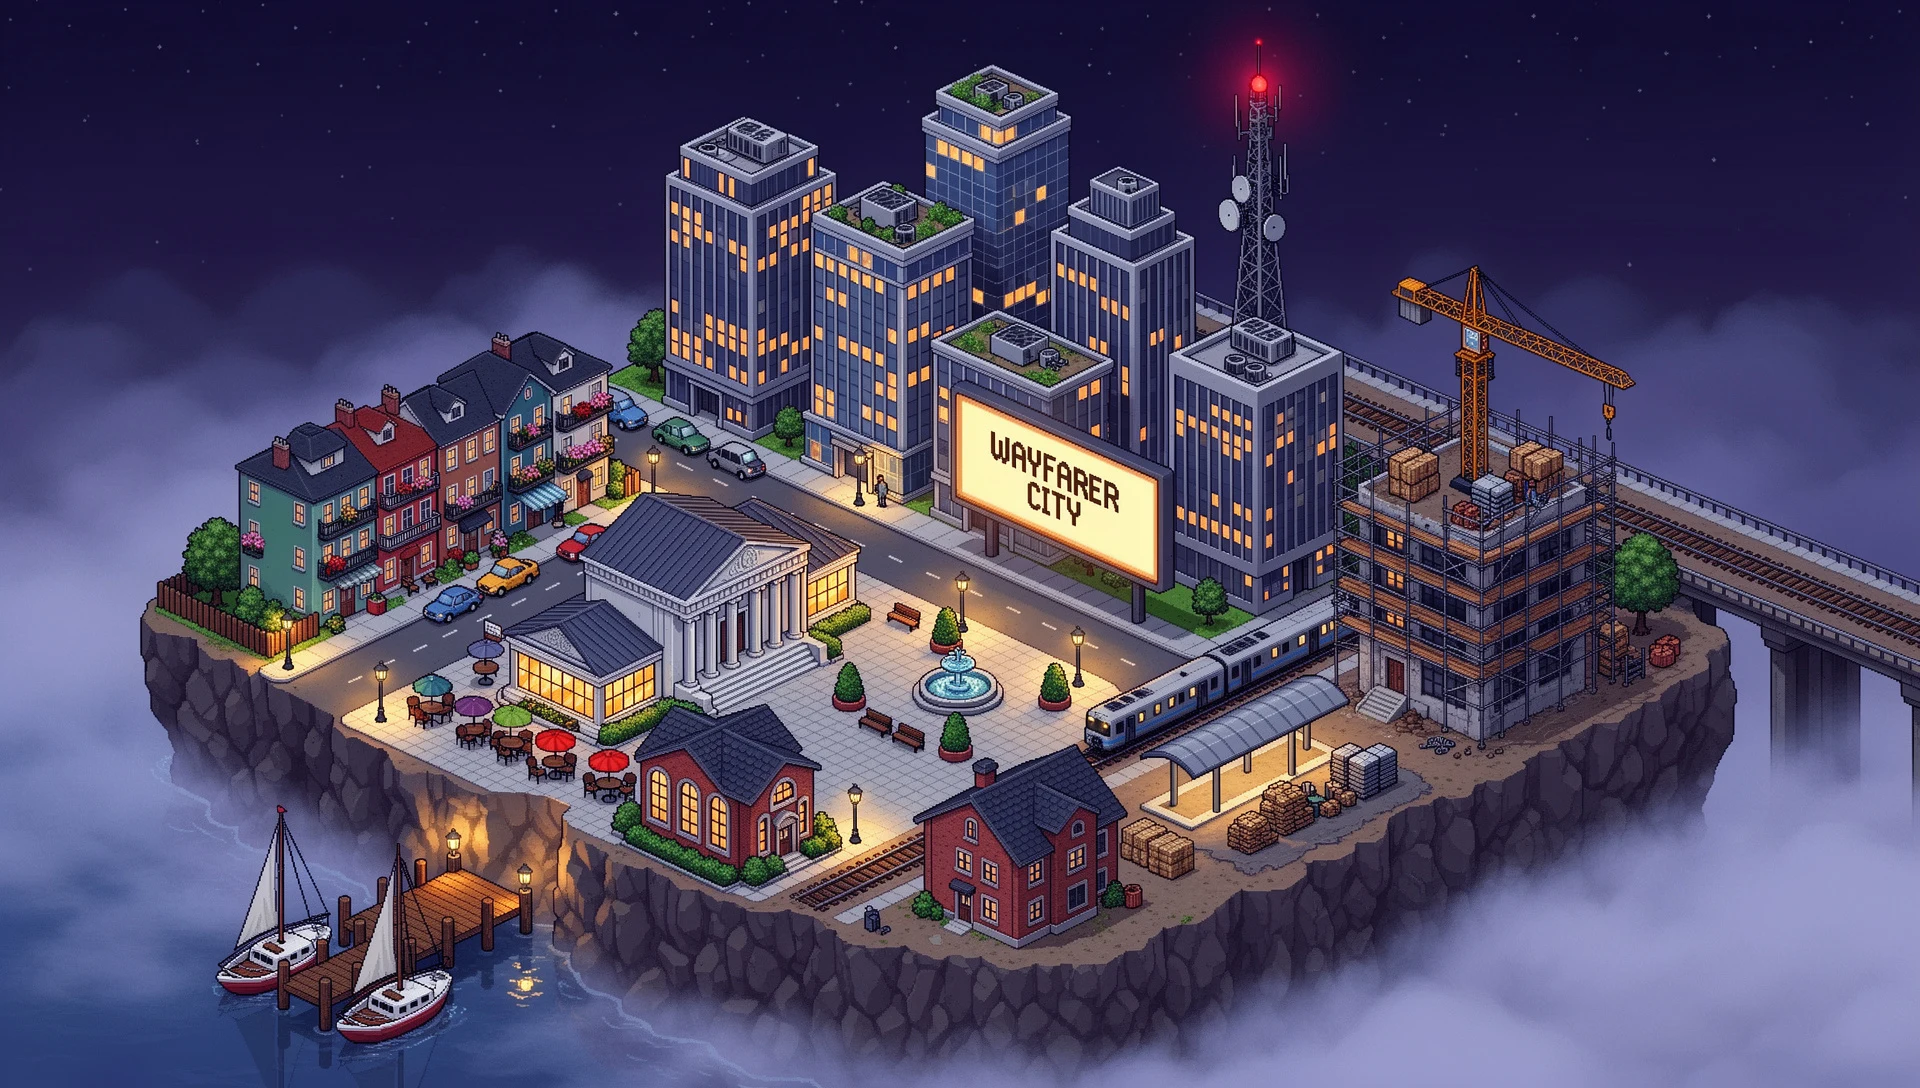
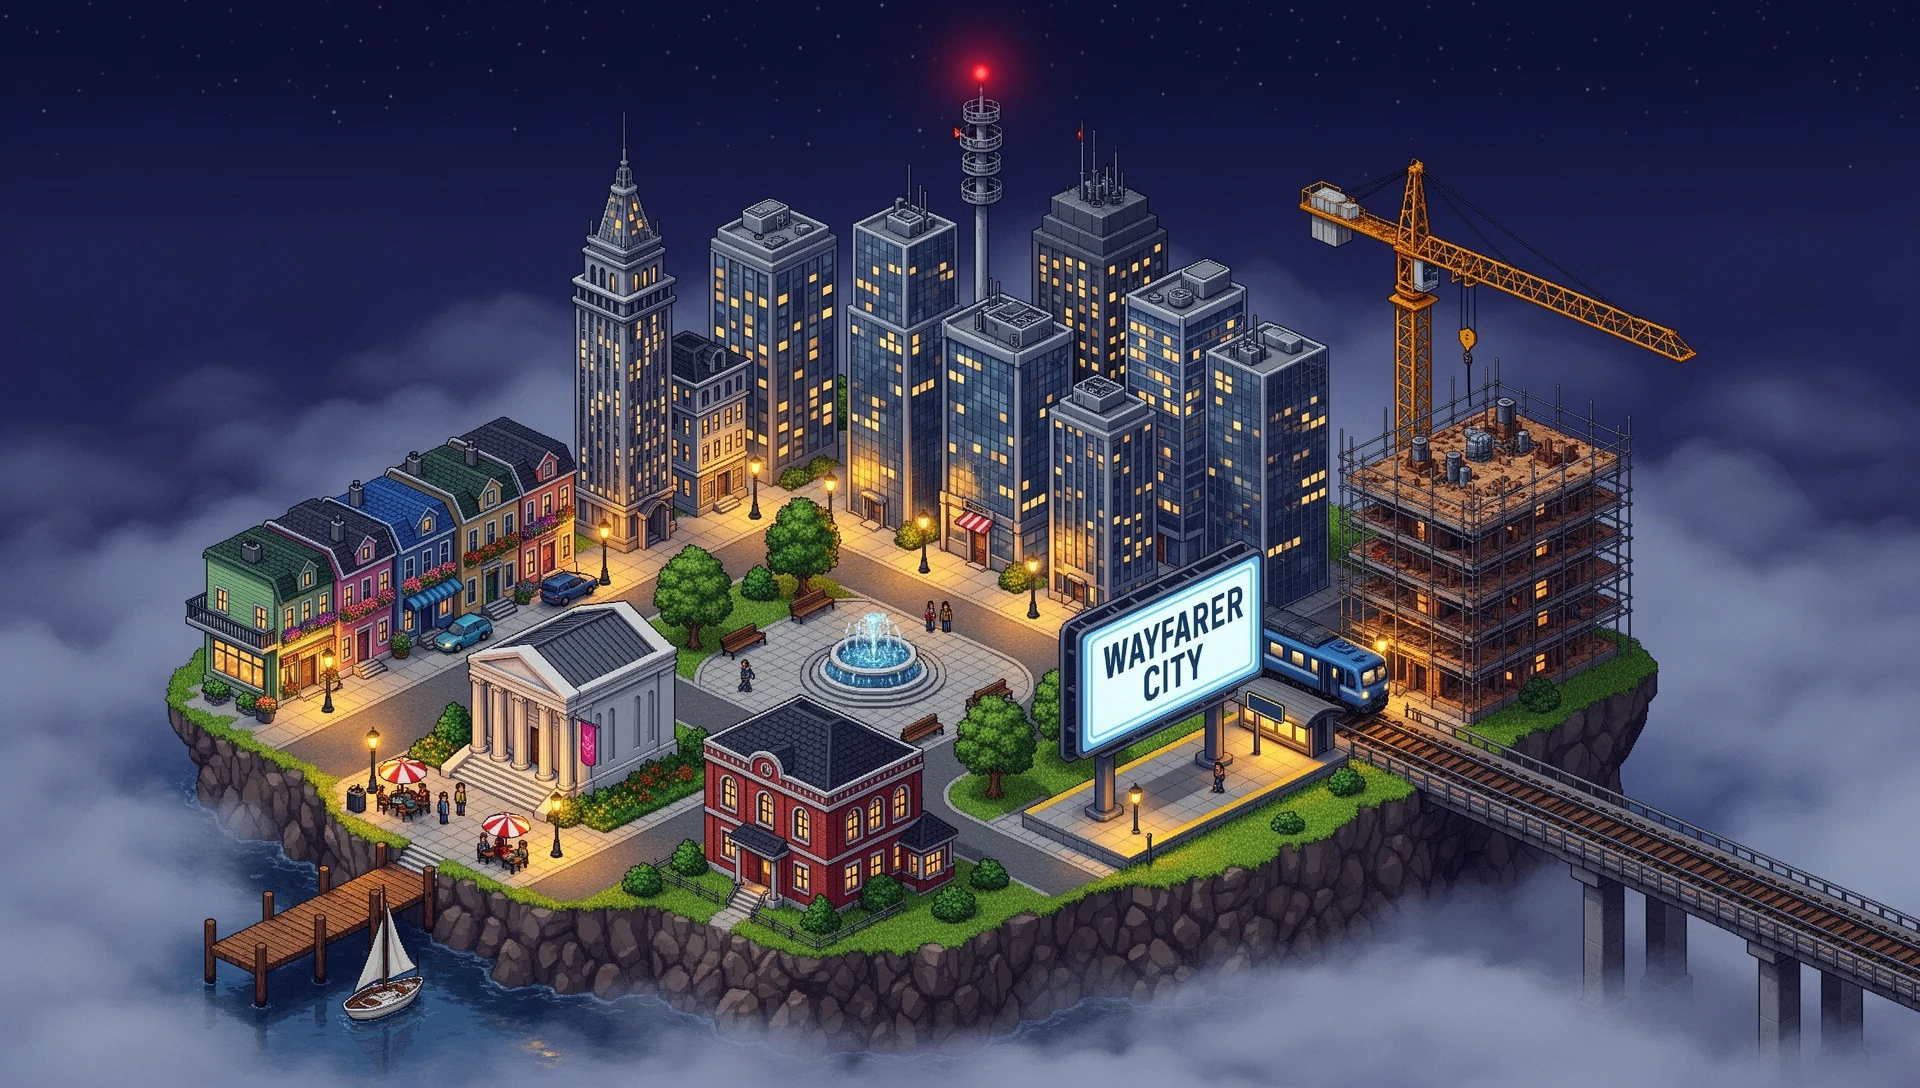
Site map: coherent railway (bridge into station), all landmarks; pins re-placed

diff --git a/worker/public/index.html b/worker/public/index.html
@@ -109,16 +109,16 @@
     <div class="map-scroll">
       <div class="map">
         <img src="/art/city-map.webp" alt="Pixel art map of Wayfarer City: downtown towers, row houses, a cafe, museum, library, billboard, radio tower and harbor, plus a train station, a construction site and a misty bridge that are still locked" width="1920" height="1088" loading="lazy">
-        <a class="pin" href="#story" style="--x:22%;--y:37%"><span>Row houses</span><small>Where they live</small></a>
-        <a class="pin" href="#mint" style="--x:28.5%;--y:59%"><span>Cafe</span><small>Mint here</small></a>
-        <a class="pin" href="#crews" style="--x:37.5%;--y:48%"><span>Museum</span><small>Rarity tiers</small></a>
-        <a class="pin" href="#traits" style="--x:38%;--y:70%"><span>Library</span><small>All 112 traits</small></a>
-        <a class="pin" href="#faq" style="--x:55%;--y:32%"><span>Billboard</span><small>Questions</small></a>
-        <a class="pin js-x" href="#" target="_blank" rel="noopener" style="--x:65.4%;--y:19%"><span>Radio tower</span><small>Signals on X</small></a>
-        <a class="pin js-opensea" href="#" target="_blank" rel="noopener" style="--x:17%;--y:86%"><span>Harbor</span><small>Sail to OpenSea</small></a>
-        <a class="pin pin-locked" href="#story" style="--x:64.5%;--y:68%"><span><i class="ph-bold ph-lock-simple" aria-hidden="true"></i>Train station</span><small>Chapter II</small></a>
-        <a class="pin pin-locked" href="#story" style="--x:77%;--y:49%"><span><i class="ph-bold ph-lock-simple" aria-hidden="true"></i>Construction</span><small>Coming later</small></a>
-        <a class="pin pin-locked" href="#story" style="--x:91%;--y:63%"><span><i class="ph-bold ph-lock-simple" aria-hidden="true"></i>Misty bridge</span><small>???</small></a>
+        <a class="pin" href="#story" style="--x:19.8%;--y:47.5%"><span>Row houses</span><small>Where they live</small></a>
+        <a class="pin" href="#mint" style="--x:23.4%;--y:73%"><span>Cafe</span><small>Mint here</small></a>
+        <a class="pin" href="#crews" style="--x:29.7%;--y:58%"><span>Museum</span><small>Rarity tiers</small></a>
+        <a class="pin" href="#traits" style="--x:42.2%;--y:69%"><span>Library</span><small>All 112 traits</small></a>
+        <a class="pin" href="#faq" style="--x:60.4%;--y:46%"><span>Billboard</span><small>Questions</small></a>
+        <a class="pin js-x" href="#" target="_blank" rel="noopener" style="--x:51%;--y:13%"><span>Radio tower</span><small>Signals on X</small></a>
+        <a class="pin js-opensea" href="#" target="_blank" rel="noopener" style="--x:17.2%;--y:85%"><span>Harbor</span><small>Sail to OpenSea</small></a>
+        <a class="pin pin-locked" href="#story" style="--x:67.2%;--y:66%"><span><i class="ph-bold ph-lock-simple" aria-hidden="true"></i>Train station</span><small>Chapter II</small></a>
+        <a class="pin pin-locked" href="#story" style="--x:77.6%;--y:49%"><span><i class="ph-bold ph-lock-simple" aria-hidden="true"></i>Construction</span><small>Coming later</small></a>
+        <a class="pin pin-locked" href="#story" style="--x:88.5%;--y:80%"><span><i class="ph-bold ph-lock-simple" aria-hidden="true"></i>Misty bridge</span><small>???</small></a>
       </div>
     </div>
   </section>
